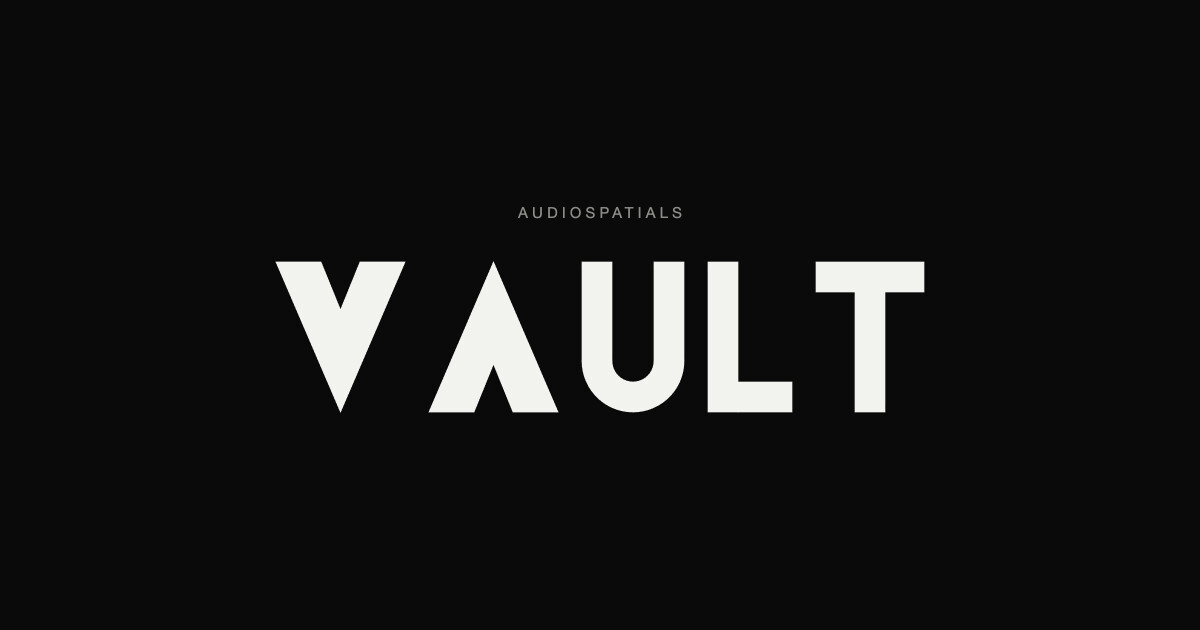
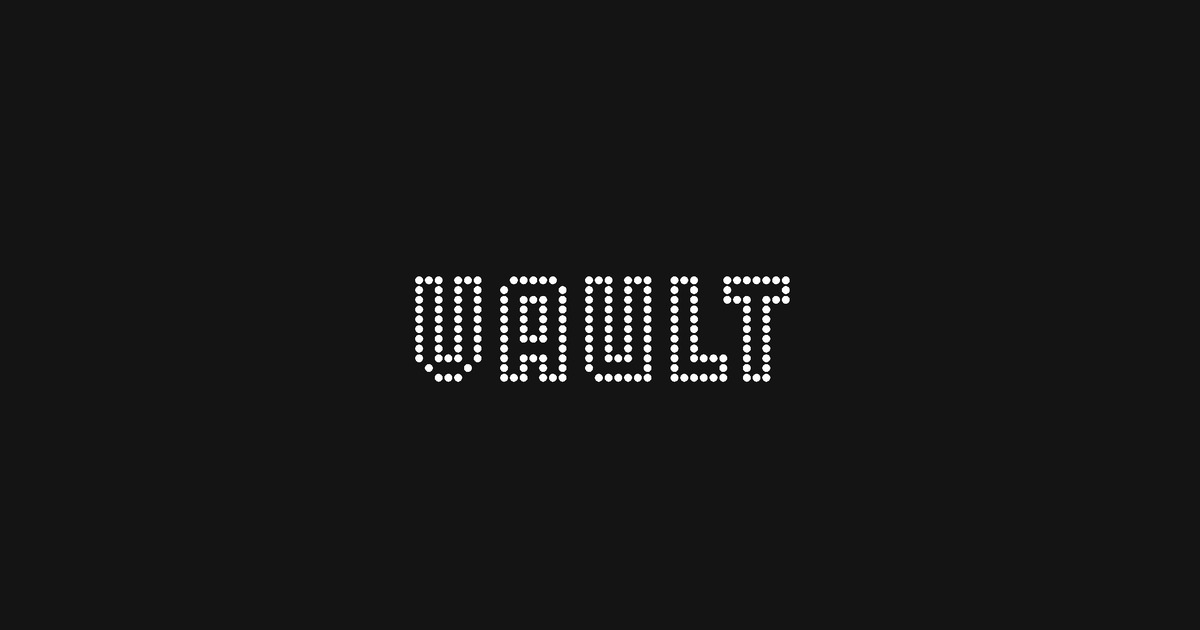
Link previews: Greg's dot-matrix VAULT

Changed region(s): [[0.2158, 0.3921, 0.7708, 0.6635], [0.4317, 0.3317, 0.555, 0.3619]]

diff --git a/CLAUDE.md b/CLAUDE.md
@@ -79,12 +79,11 @@ paused under reduced motion. Source: `~/Desktop/3P6A5630.MOV` (4K MJPEG,
 ## Link previews
 
 Every vault page's `og:image` is `assets/share/vault.jpg` (1200×630, JPG
-because iMessage won't show webp): the geo-alphabet VAULT in white on
-#0a0a0a with a small grey AUDIOSPATIALS above, as the front page looked
-before the video. Only vault links use it; audiospatials.com keeps its own
-wordmark image. It was drawn in the browser with `Geo.layout('VAULT')` and
-Path2D at 2× then scaled down (ImageMagick's SVG renderer facets the U's
-curve). The build writes the tags into each piece page.
+because iMessage won't show webp): Greg's dot-matrix VAULT on near-black
+(2026-09-29), made from his `assets/share/vault.png` (2500×1313, same
+proportions) with a Lanczos resize. Only vault links use it; audiospatials.com
+keeps its own wordmark image. The build writes the tags into each piece page.
+(Before that it was the geo-alphabet VAULT drawn from `Geo.layout`.)
 
 ## Shared with audiospatials.com
 
